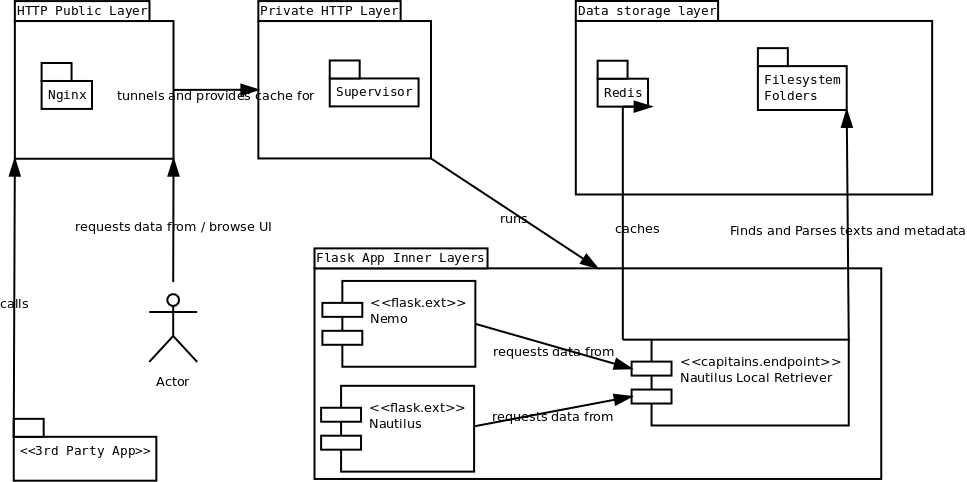
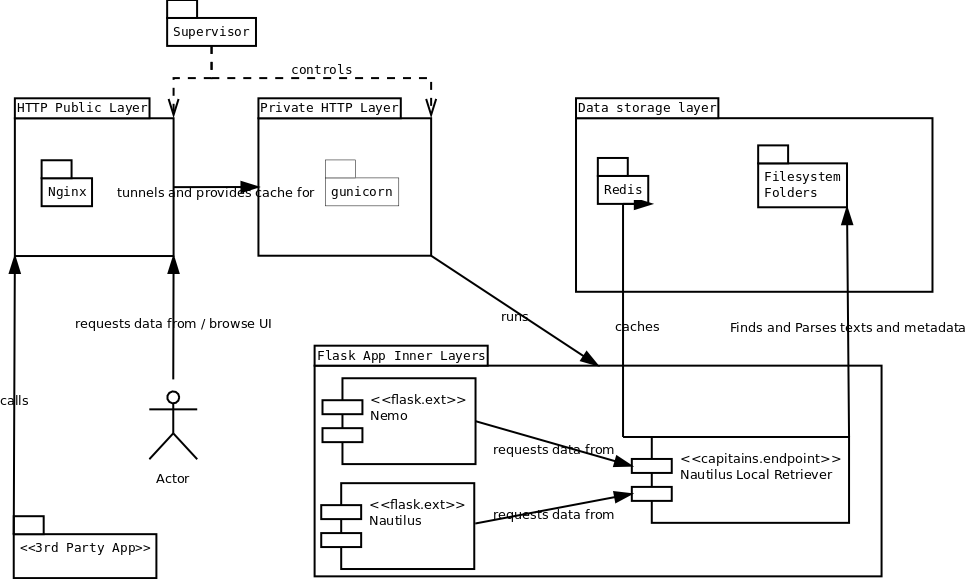
Better setup guide lines

diff --git a/doc/Nautilus.production.rst b/doc/Nautilus.production.rst
@@ -17,40 +17,125 @@ The environment we propose contains a flask.ext.nemo instance, for control purpo
 Nginx, Supervisor, GUnicorn
 ###########################
 
-Nginx
+The following configuration file for supervisor is enough for running the whole `nginx <http://nginx.org>`_, `supervisord <http://supervisord.org/>`_ and `gunicorn <http://gunicorn.org/>`_ trio. In general, servers configuration should always - in production - have a trio made of an HTTP/Reverse proxy server such as *nginx*, a process control system such as *supervisor* and a WSGI http server such as *gunicorn* or *uWSGI*. This configuration takes the road of *gunicorn*, but feel free to test and benchmark any combination to know what works best on your own server(s).
+
+On the software is read, run :
+
+.. code-block:: shell
+
+    service supervisor stop
+    service nginx stop
+
+
+Setup
 *****
 
-Explanation paragraph for Nginx (tuning)
+.. code-block:: shell
 
-Supervisor
-**********
+   apt-get install zlib1g-dev libxslt1-dev libxml2-dev python3 python3-dev python3-pip build-essential nginx supervisor
+   apt-get install python-setuptools
 
-Explanation paragraph for Supervisor (tuning). Remember to explain the python 2 dependencies
+   easy_install pip
+   pip2.7 install supervisor-stdout
+   easy_install3 --upgrade pip
+
+   mkdir /var/capitains-server
+   cd /var/capitains-server
+
+   virtualenv venv
+   pip install Nautilus
+   pip install gunicorn
+   pip install flask_nemo
+
+You'll need then to create your own app (You can see below for an example)
+
+Configurations files
+********************
+
+.. warning:: These configuration files are designed for the specified directories and services
+
 
 .. code-block:: ini
+   :linenos:
+   :caption: /etc/supervisord.conf
+   :name: Supervisord configuration
 
-	[supervisord]
-	nodaemon = true
+   [supervisord]
+   nodaemon = true
 
-	[program:nginx]
-	command = /usr/sbin/nginx
-	startsecs = 5
-	stdout_events_enabled = true
-	stderr_events_enabled = true
+   [program:nginx]
+   command = /usr/sbin/nginx
+   startsecs = 5
+   stdout_events_enabled = true
+   stderr_events_enabled = true
 
-	[program:app-gunicorn]
-	# See explanation for this line
-	command=/usr/local/bin/gunicorn app:app -w 4 --threads 2 -b 127.0.0.1:5000 --log-level=debug --pythonpath /usr/bin/python3
-	directory=/code
-	stdout_events_enabled = true
-	stderr_events_enabled = true
+   [program:app-gunicorn]
+   # See explanation for this line
+   command=/usr/local/bin/gunicorn app:app -w 4 --threads 2 -b 127.0.0.1:5000 --log-level=debug --pythonpath /usr/bin/python3
+   directory=/code
+   stdout_events_enabled = true
+   stderr_events_enabled = true
 
-	[eventlistener:stdout]
-	command = supervisor_stdout
-	buffer_size = 100
-	events = PROCESS_LOG
-	result_handler = supervisor_stdout:event_handler
+   [eventlistener:stdout]
+   command = supervisor_stdout
+   buffer_size = 100
+   events = PROCESS_LOG
+   result_handler = supervisor_stdout:event_handler
 
+
+.. code-block:: nginx
+   :linenos:
+   :caption: /etc/nginx/nginx.conf
+   :name: Nginx configuration
+
+   daemon off;
+   error_log /dev/stdout info;
+   worker_processes 1;
+
+   # user nobody nogroup;
+   pid /tmp/nginx.pid;
+
+   events {
+       worker_connections 1024;
+       accept_mutex off;
+   }
+
+   http {
+       include mime.types;
+       default_type application/octet-stream;
+       access_log /dev/stdout combined;
+       sendfile on;
+
+       upstream app_server {
+           # For a TCP configuration:
+           server 127.0.0.1:5000 fail_timeout=0;
+       }
+
+       server {
+           listen 80 default;
+           client_max_body_size 4G;
+           server_name _;
+
+           keepalive_timeout 5;
+
+           # path for static files
+           root /opt/app/static;
+
+           location / {
+               # checks for static file, if not found proxy to app
+               try_files $uri @proxy_to_app;
+           }
+
+           location @proxy_to_app {
+               proxy_set_header X-Forwarded-For $proxy_add_x_forwarded_for;
+               proxy_set_header Host $http_host;
+               proxy_redirect off;
+
+               proxy_pass   http://app_server;
+           }
+
+       }
+   }
 
 Flask Application Configuration
 ###############################
@@ -61,6 +146,7 @@ Nemo And FileSystemCache (Easy to maintain)
 The following configuration is based on a FileSystemCache. This means that you do not need to install, run and maintain more advanced Cache system such as Redis. This also means this should be slower. The implementation contains a frontend, you should be able to run it without it.
 
 .. code-block:: python
+   :linenos:
 
 	# -*- coding: utf-8 -*-
 
@@ -71,13 +157,13 @@ The following configuration is based on a FileSystemCache. This means that you d
 	from flask_cache import Cache
 
 	app = Flask("Nautilus")
-	nautilus_cache = FileSystemCache("/code/cache")
+	nautilus_cache = FileSystemCache("/var/capitains-cache")
 	nautilus = FlaskNautilus(
 	    app=app,
 	    prefix="/api/cts",
 	    name="nautilus",
 	    # Add here paths to all CapiTainS repository you have locally
-	    resources=["/code/data/canonical-latinLit-master"],
+	    resources=["/var/capitains-data/canonical-latinLit-master"],
 	    parser_cache=nautilus_cache,
 	    http_cache=Cache(config={'CACHE_TYPE': "simple"})
 	)
@@ -88,7 +174,7 @@ The following configuration is based on a FileSystemCache. This means that you d
 	    name="nemo",
 		base_url="",
 		api_url="/api/cts",
-	    endpoint=nautilus.endpoint
+	    endpoint=nautilus.retriever
 	)
 	# We register its routes
 	nemo.register_routes()
